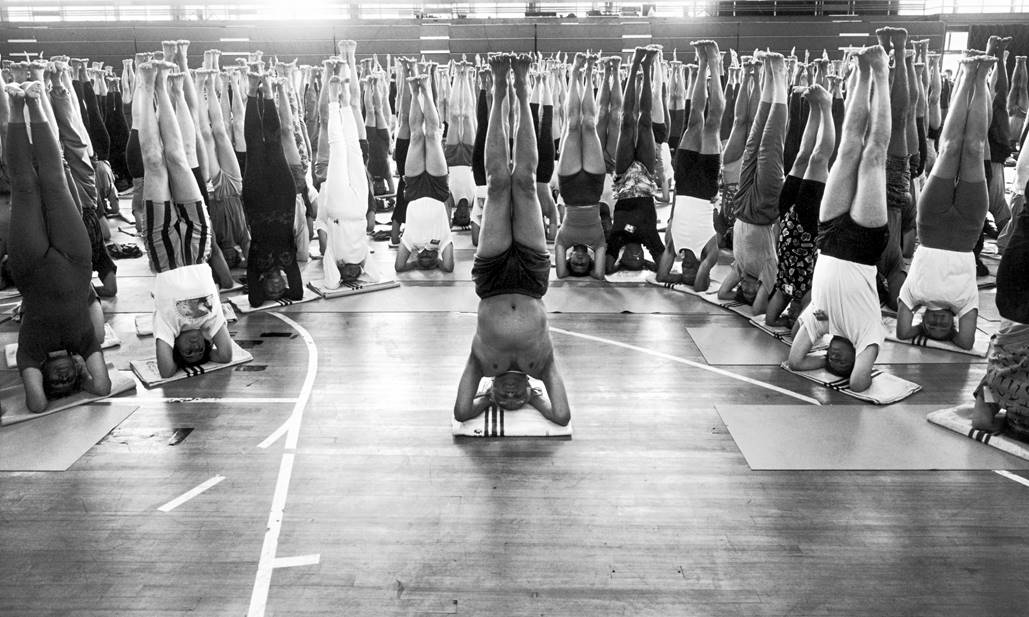
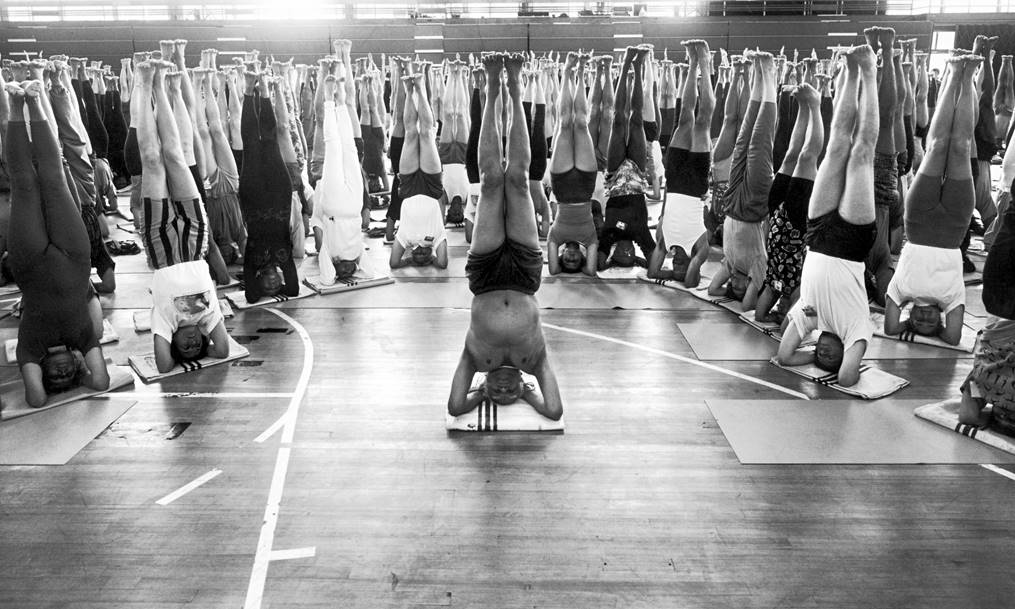
maj taille images

diff --git a/index.html b/index.html
@@ -400,7 +400,7 @@ Septembre</h2>
 
 <p class=MsoNormal align=center style='text-align:center'><a
 href="#_Stage_de_Yoga"><span style='color:windowtext;text-decoration:none'><img
-border=0 width=1041 height=736 id="Image 37" src="index_fichiers/image004.jpg"></span></a></p>
+border=0 width=954 height=675 id="Image 37" src="index_fichiers/image004.jpg"></span></a></p>
 
 <div style='border:none;border-bottom:solid #C00000 1.5pt;padding:0cm 0cm 1.0pt 0cm'>
 
@@ -492,7 +492,7 @@ href="http://www.bksiyengar.com/" target="_blank">Pour visiter le site officiel
 de BKS Iyengar cliquez ICI</a></p>
 
 <p class=MsoNormal align=center style='margin-bottom:6.0pt;text-align:center'><img
-border=0 width=487 height=369 src="index_fichiers/image004.gif"></p>
+border=0 width=638 height=484 src="index_fichiers/image004.gif"></p>
 
 <h2>La méthode de Yoga Iyengar<sub>®</sub></h2>
 
@@ -520,7 +520,7 @@ professeurs de Yoga Iyengar<sub>®</sub>, cliquez ici</a></i></p>
 <p class=MsoNormal style='margin-bottom:6.0pt'>&nbsp;</p>
 
 <p class=MsoNormal align=center style='margin-top:6.0pt;text-align:center;
-line-height:normal'><img border=0 width=485 height=340
+line-height:normal'><img border=0 width=641 height=450
 src="index_fichiers/image005.gif"></p>
 
 <h2>Les spécificités du Yoga IYENGAR<sub>®</sub>&nbsp;?</h2>
@@ -584,7 +584,7 @@ relaxé, stable et régénéré</b>.</p>
 normal'>&nbsp;</p>
 
 <p class=MsoNormal align=center style='text-align:center;page-break-after:avoid'><img
-border=0 width=490 height=262 src="index_fichiers/image007.gif"
+border=0 width=654 height=350 src="index_fichiers/image007.gif"
 alt="Adho Mukha Svanasana - BKS Iyengar"></p>
 
 <h2><a name="_Enseignants"></a>Qui peut pratiquer le Yoga IYENGAR<sub>®</sub> ?</h2>
@@ -697,8 +697,8 @@ souhaitez</p>
 <p class=MsoNormal>&nbsp;</p>
 
 <p class=MsoNormal align=center style='text-align:center'><img border=0
-width=310 height=245 src="index_fichiers/image011.gif">&nbsp;&nbsp;&nbsp; <img
-border=0 width=310 height=245 src="index_fichiers/image012.gif"></p>
+width=391 height=309 src="index_fichiers/image011.gif">&nbsp;&nbsp;&nbsp; <img
+border=0 width=388 height=307 src="index_fichiers/image012.gif"></p>
 
 <div style='border:none;border-bottom:solid #C00000 1.5pt;padding:0cm 0cm 1.0pt 0cm'>
 
@@ -799,7 +799,7 @@ Santa Eularia del&nbsp;Rio IBIZA&nbsp; Espagne. <i>Tel:(+34) 971330 452</i></p>
 target="_blank">http://www.cielazulibiza.com/lang/fr</a></p>
 
 <p class=MsoNormal align=center style='text-align:center;line-height:normal'><img
-border=0 width=739 height=264 src="index_fichiers/image013.gif"
+border=0 width=890 height=318 src="index_fichiers/image013.gif"
 alt=presentation></p>
 
 <h3>Logement</h3>
@@ -817,7 +817,7 @@ un poste <b>internet-wifi</b>, et divers services&nbsp;: <b>gardes d’enfants</
 <h3>Plage et environs</h3>
 
 <p class=MsoNormal align=center style='text-align:center'><img border=0
-width=840 height=639 src="index_fichiers/image014.gif" alt="Es Cana Ibiza"></p>
+width=878 height=668 src="index_fichiers/image014.gif" alt="Es Cana Ibiza"></p>
 
 <p class=MsoNormal>A quelques dizaines de mètres, la <b>Cala Martina</b>, très
 belle plage de sable doré, vous propose ses restaurants au bord de l’eau,
@@ -826,7 +826,7 @@ chaises longues, club de <b>plongée</b>, <b>club de voile</b>, <b>windsurf</b>,
 aquatiques.</p>
 
 <p class=MsoNormal align=center style='text-align:center'><img border=0
-width=849 height=579 src="index_fichiers/image015.gif"
+width=882 height=602 src="index_fichiers/image015.gif"
 alt="http://www.spainted.com/ibiza/beaches-of-ibiza/cala-martina.jpg"></p>
 
 <p class=MsoNormal>A 1,50 km, découvrez le petit <b>port de Es Canar</b> très
@@ -834,7 +834,7 @@ animé le soir avec ses nombreux bars et restaurants et son marché hippie
 (ouvert les mercredis).</p>
 
 <p class=MsoNormal align=center style='text-align:center'><img border=0
-width=812 height=554 src="index_fichiers/image016.gif"
+width=871 height=594 src="index_fichiers/image016.gif"
 alt="Villas in Santa Eulia"></p>
 
 <p class=MsoNormal>A 4 km, <b>Santa-Eularia</b>, charmante petite ville
@@ -968,7 +968,7 @@ margin-left:1.0cm'>
 </div>
 
 <p class=MsoNormal align=center style='text-align:center'><img border=0
-width=169 height=273 src="index_fichiers/image017.gif"></p>
+width=388 height=625 src="index_fichiers/image017.gif"></p>
 
 <div style='border:none;border-bottom:solid #984806 1.0pt;padding:0cm 0cm 1.0pt 0cm'>
 
@@ -1075,7 +1075,7 @@ target="_blank">https://www.facebook.com/pages/Comme-Un-Monde-D%C3%A9co-Ethnique
 </div>
 
 <p class=MsoNormal align=center style='text-align:center'><img border=0
-width=1029 height=617 id="Image 27" src="index_fichiers/image006.jpg"
+width=1015 height=609 id="Image 27" src="index_fichiers/image006.jpg"
 alt="http://static.guim.co.uk/sys-images/Guardian/Pix/pictures/2014/8/22/1408711340928/BKS-Iyengar-Yoga-Conventi-014.jpg"></p>
 
 </div>
